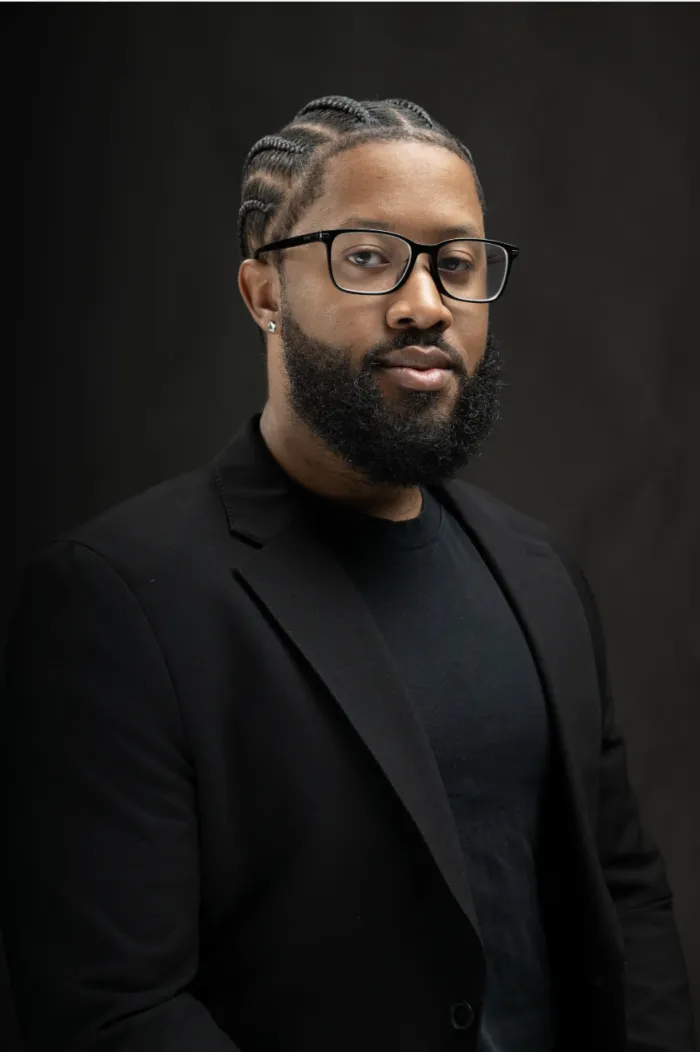
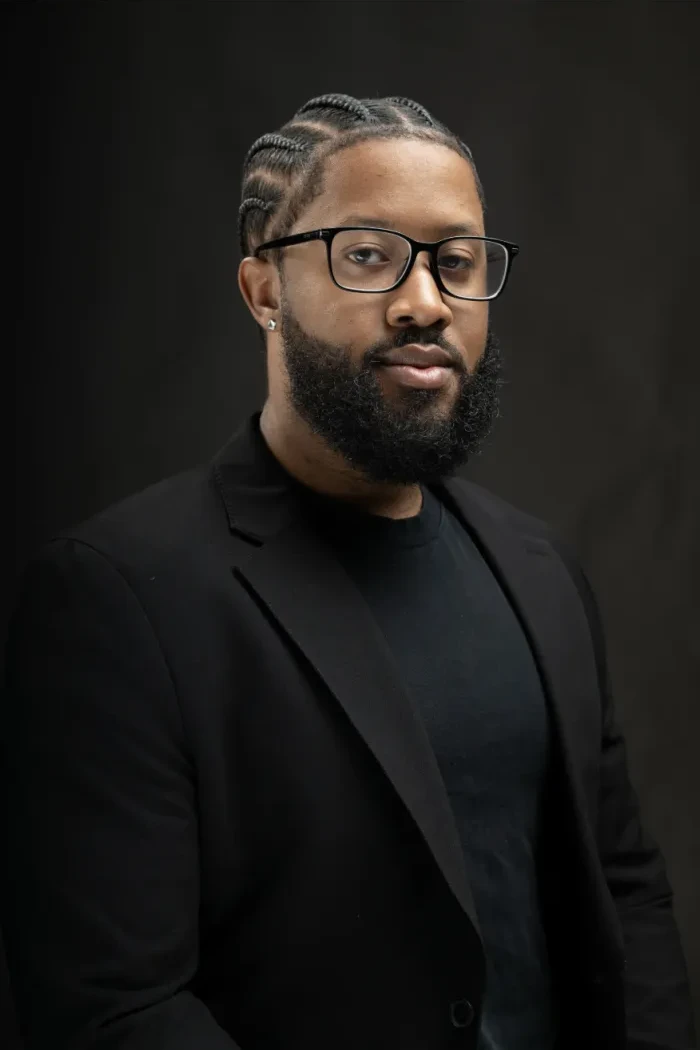
Add Featured section for RendezView; fix section banding
Featured
- new "What we're working on now" section between About and Portfolio,
  with a nav entry, showcasing RendezView as work in progress
- copy and capability blurbs lifted verbatim from the RendezView launch
  page so the two stay in step
- real product screenshot (iphone-demo) instead of a logo plate, and
  RendezView's own white wordmark as used on their dark hero
- links to rendezview.app, Instagram and LinkedIn
- RendezView removed from the Portfolio grid; it was duplicated once it
  had a full featured treatment

Fixes
- section banding: the render order is Services, About, Portfolio,
  Contact, not Services, Portfolio, About. An earlier change left
  Services and About both shaded. Now alternates correctly across
  Services, About, Featured, Portfolio, Contact.
- crop a 2px near-white strip baked into the top edge of
  jamar-headshot; it read as a bright hairline on the dark card
- tighten the RendezView wordmark viewBox to its artwork, so the logo
  sits flush with the text beneath instead of behind ~19u of padding

diff --git a/src/components/Featured.tsx b/src/components/Featured.tsx
@@ -1,0 +1,158 @@
+import {
+  ExternalLink,
+  Instagram,
+  Linkedin,
+  Sparkles,
+  Handshake,
+  Radio,
+} from "lucide-react";
+import { ScrollReveal } from "./ui/scroll-reveal";
+import { AnimatedText } from "./ui/animated-text";
+import rendezviewApp from "../assets/rendezview-app.webp";
+import rendezviewWordmark from "../assets/rendezview-wordmark-white.svg";
+
+// Copy lifted from the RendezView launch page so the two stay in step.
+const capabilities = [
+  {
+    icon: Sparkles,
+    title: "Instant mood matching",
+    body: "Share your references. We extract the vibe and surface vendors who've built it before.",
+  },
+  {
+    icon: Handshake,
+    title: "Automated negotiation",
+    body: "We negotiate fair rates automatically. No haggling, no awkward asks.",
+  },
+  {
+    icon: Radio,
+    title: "One live feed",
+    body: "Sound checks. Catering arrivals. Vendor confirmations. Nothing falls through.",
+  },
+];
+
+export function Featured() {
+  return (
+    <section id="featured" className="py-24 bg-muted/30">
+      <div className="container mx-auto px-6">
+        <ScrollReveal>
+          <div className="text-center space-y-4 mb-14">
+            <div className="inline-flex items-center gap-2 px-3 py-1 rounded-full bg-brand/10 text-brand border border-brand/25">
+              <span className="relative flex h-2 w-2">
+                <span className="absolute inline-flex h-full w-full rounded-full bg-brand opacity-60 animate-ping" />
+                <span className="relative inline-flex h-2 w-2 rounded-full bg-brand" />
+              </span>
+              Currently Building
+            </div>
+            <AnimatedText
+              text="What we're working on now"
+              tag="h2"
+              className="text-3xl lg:text-5xl font-bold"
+            />
+            <p className="text-muted-foreground max-w-2xl mx-auto">
+              Our own product, built in the open. Everything we learn shipping it
+              goes back into the work we do for clients.
+            </p>
+          </div>
+        </ScrollReveal>
+
+        <ScrollReveal delay={100}>
+          <div className="max-w-6xl mx-auto rounded-2xl border border-border/60 bg-card overflow-hidden">
+            <div className="grid grid-cols-1 lg:grid-cols-[minmax(0,5fr)_minmax(0,7fr)] items-center">
+              {/* Real product shot. Sits on a soft glow so it doesn't float on flat black. */}
+              <div className="relative flex justify-center px-8 pt-10 lg:pt-12 pb-0 lg:pb-12 overflow-hidden">
+                <div
+                  className="absolute inset-0 pointer-events-none"
+                  style={{
+                    background:
+                      "radial-gradient(ellipse 60% 50% at 50% 45%, rgba(255,255,255,0.07) 0%, transparent 70%)",
+                  }}
+                />
+                <img
+                  src={rendezviewApp}
+                  alt="The RendezView app planning an event with a host"
+                  loading="lazy"
+                  className="relative w-[210px] sm:w-[240px] lg:w-[260px] h-auto drop-shadow-[0_18px_40px_rgba(0,0,0,0.55)] transition-transform duration-500 hover:-translate-y-1.5"
+                />
+              </div>
+
+              <div className="p-8 sm:p-10 lg:py-12 lg:pr-12 lg:pl-4 flex flex-col justify-center gap-4">
+                <div className="flex flex-wrap items-center gap-4">
+                  {/* RendezView's own white wordmark, as used on their dark hero */}
+                  <h3>
+                    <img
+                      src={rendezviewWordmark}
+                      alt="RendezView"
+                      className="h-7 sm:h-8 w-auto"
+                    />
+                  </h3>
+                  <span className="text-xs px-2.5 py-1 rounded-full border border-border text-muted-foreground">
+                    In development · Waitlist open
+                  </span>
+                </div>
+                <p className="text-lg sm:text-xl font-medium">
+                  Your vision, fully realized. No compromise.
+                </p>
+                <p className="text-muted-foreground leading-relaxed">
+                  An AI-powered event planning marketplace connecting hosts with
+                  vendors and venues. Hosts describe the event they want;
+                  RendezView reads the references, matches the vendors who can
+                  deliver it, and handles the back-and-forth.
+                </p>
+
+                <div className="flex flex-col gap-4 pt-5 mt-1 border-t border-border/60">
+                  {capabilities.map(({ icon: Icon, title, body }) => (
+                    <div key={title} className="flex gap-3.5">
+                      <div className="w-8 h-8 shrink-0 rounded-lg bg-brand/10 flex items-center justify-center">
+                        <Icon className="h-4 w-4 text-brand" />
+                      </div>
+                      <div className="space-y-0.5">
+                        <h4 className="font-medium text-sm leading-tight">
+                          {title}
+                        </h4>
+                        <p className="text-sm text-muted-foreground leading-relaxed">
+                          {body}
+                        </p>
+                      </div>
+                    </div>
+                  ))}
+                </div>
+              </div>
+            </div>
+
+            <div className="px-8 sm:px-10 lg:px-12 pb-8 sm:pb-10 lg:pb-12">
+              <div className="flex flex-wrap items-center gap-x-6 gap-y-3 border-t border-border/60 pt-8">
+                <a
+                  href="https://rendezview.app"
+                  target="_blank"
+                  rel="noopener noreferrer"
+                  className="inline-flex items-center gap-2 text-sm font-medium text-link hover:text-link/80 hover:underline"
+                >
+                  Visit rendezview.app
+                  <ExternalLink className="h-4 w-4" />
+                </a>
+                <a
+                  href="https://www.instagram.com/rendezview.app/"
+                  target="_blank"
+                  rel="noopener noreferrer"
+                  className="inline-flex items-center gap-2 text-sm font-medium text-link hover:text-link/80 hover:underline"
+                >
+                  <Instagram className="h-4 w-4" />
+                  @rendezview.app
+                </a>
+                <a
+                  href="https://www.linkedin.com/company/rendezview-app/"
+                  target="_blank"
+                  rel="noopener noreferrer"
+                  className="inline-flex items-center gap-2 text-sm font-medium text-link hover:text-link/80 hover:underline"
+                >
+                  <Linkedin className="h-4 w-4" />
+                  RendezView on LinkedIn
+                </a>
+              </div>
+            </div>
+          </div>
+        </ScrollReveal>
+      </div>
+    </section>
+  );
+}

diff --git a/src/components/Portfolio.tsx b/src/components/Portfolio.tsx
@@ -95,20 +95,6 @@ export function Portfolio() {
       link: "https://www.bkrm.io",
     },
     {
-      title: "RendezView",
-      description:
-        "AI-powered event planning marketplace connecting hosts with vendors and venues, featuring an AI planning assistant, moodboards, and vendor bundles.",
-      image: rendezviewImg,
-      tags: ["AI/ML", "Marketplace", "Event Planning", "React", "FastAPI"],
-      category: "AI-Powered Marketplace",
-      metrics: [
-        "40% User Interest",
-        "$100K+ Potential Bookings",
-        "25% Conversion Boost",
-      ],
-      link: "https://rendezview.app",
-    },
-    {
       title: "Holm",
       description:
         "Modern platform with user authentication, gallery features, and subscription-based services designed for creative professionals.",

diff --git a/src/App.tsx b/src/App.tsx
@@ -5,6 +5,7 @@ import { Header } from "./components/Header";
 import { Hero } from "./components/Hero";
 import { Services } from "./components/Services";
 import { About } from "./components/About";
+import { Featured } from "./components/Featured";
 import { Footer } from "./components/Footer";
 import { StructuredData } from "./components/StructuredData";
 import { LoadingScreen } from "./components/LoadingScreen";
@@ -93,6 +94,7 @@ export default function App() {
           <Hero />
           <Services />
           <About />
+          <Featured />
           <Suspense
             fallback={
               <div className="h-96 flex items-center justify-center">

diff --git a/src/components/About.tsx b/src/components/About.tsx
@@ -111,7 +111,7 @@ export function About() {
   ];
 
   return (
-    <section id="about" className="py-24 bg-muted/30">
+    <section id="about" className="py-24">
       <div className="container mx-auto px-6">
         <div className="grid grid-cols-1 lg:grid-cols-2 gap-16 items-center">
           {/* Left Column - Content */}

diff --git a/src/components/Contact.tsx b/src/components/Contact.tsx
@@ -108,7 +108,7 @@ export function Contact() {
   ];
 
   return (
-    <section id="contact" className="py-24">
+    <section id="contact" className="py-24 bg-muted/30">
       <div className="container mx-auto px-6">
         <ScrollReveal>
           <div className="text-center space-y-4 mb-16">

diff --git a/src/components/Header.tsx b/src/components/Header.tsx
@@ -73,6 +73,7 @@ export function Header() {
     { id: "home", label: "Home" },
     { id: "services", label: "Services" },
     { id: "about", label: "About" },
+    { id: "featured", label: "Featured" },
     { id: "portfolio", label: "Portfolio" },
     { id: "contact", label: "Contact" },
   ];
